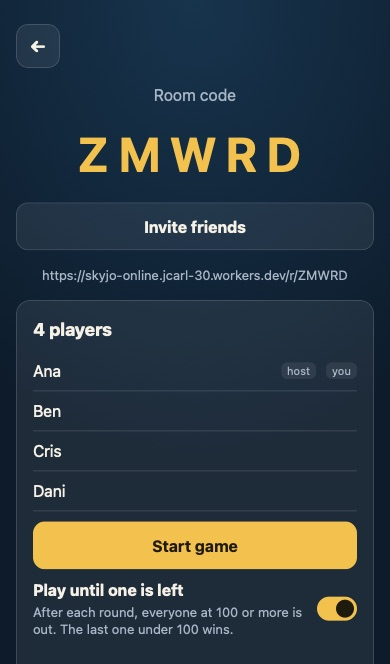
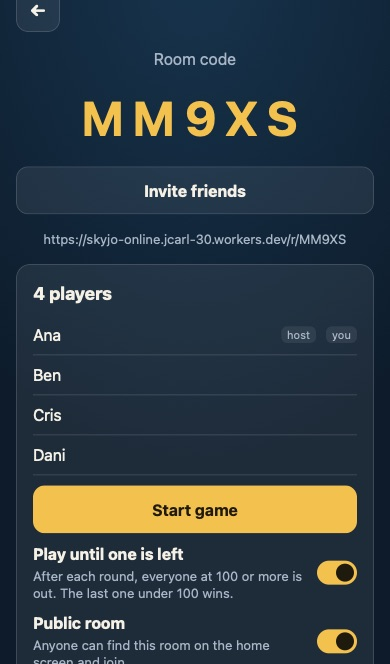
feat: public rooms: version 2.7.0, changelog, README and its images, AGENTS.md, screenshots (M24)

diff --git a/e2e/readme.spec.ts b/e2e/readme.spec.ts
@@ -21,7 +21,6 @@ test("README stills", async ({ browser, page }, info) => {
   await page.goto("/");
   const gotIt = page.getByRole("button", { name: "Got it" });
   if (await gotIt.count()) await gotIt.click();
-  await shot(page, "home");
 
   const { pages } = await seatedRoom(browser, info, ["Ana", "Ben", "Cris", "Dani"]);
   // Show the live site's address, not the test server's.
@@ -31,7 +30,13 @@ test("README stills", async ({ browser, page }, info) => {
   });
   await pages[0].getByRole("checkbox", { name: "Play until one is left" }).click({ force: true });
   await expect(pages[1].getByRole("checkbox", { name: "Play until one is left" })).toBeChecked();
+  // A public room (M24): the switch in the lobby, and the room on Home's list.
+  await pages[0].getByRole("checkbox", { name: "Public room" }).click({ force: true });
+  await expect(pages[1].getByRole("checkbox", { name: "Public room" })).toBeChecked();
   await shot(pages[0], "lobby");
+  await page.getByRole("button", { name: "Refresh" }).click();
+  await expect(page.getByTestId("public-rooms")).toContainText("Ana's room");
+  await shot(page, "home");
 
   // Your turn with 9 s on the clock (M8).
   const four = atTurnStart(4);

diff --git a/src/client/Home.tsx b/src/client/Home.tsx
@@ -186,7 +186,7 @@ export function Home() {
                   <span className="seat-tags">
                     {r.knockout && <span className="tag">{t("knockoutTag")}</span>}
                     <span>
-                      {r.players}/{MAX_PLAYERS}
+                      {r.players}/{MAX_PLAYERS} ›
                     </span>
                   </span>
                 </a>

diff --git a/AGENTS.md b/AGENTS.md
@@ -8,22 +8,23 @@ A phone-first, real-time multiplayer card game based on Skyjo's mechanics. 2–8
 
 ## Architecture
 
-| Path                       | Responsibility                                                                              | Rules                                                                                                                                                   |
-| -------------------------- | ------------------------------------------------------------------------------------------- | ------------------------------------------------------------------------------------------------------------------------------------------------------- |
-| `src/engine/`              | Rules engine: state, actions, scoring, view projection, seeded RNG                          | Pure and deterministic. Imports only `./…`. No `Math.random`, `Date`, DOM, or Node APIs.                                                                |
-| `src/client/`              | React UI (online rooms; no local mode)                                                      | Renders `GameView`, sends actions. Never decides rules.                                                                                                 |
-| `src/server/room.ts`       | Room: seats, protocol, reconnection, turn clock and Auto-play                               | Platform-agnostic. Runs the engine; is the only authority.                                                                                              |
-| `src/server/worker.ts`     | Cloudflare Worker + Durable Object adapter                                                  | Thin.                                                                                                                                                   |
-| `src/protocol.ts`          | Wire messages (`ClientMsg`, `ServerMsg`, `RoomView`) and `parseClientMsg`                   | Shared by client and server. Validates shape only; never trusts `seat` from the client.                                                                 |
-| `src/server/node.ts`       | Self-host adapter (Node + `ws`)                                                             | Thin.                                                                                                                                                   |
-| `e2e/`                     | Playwright tests                                                                            | Mobile (iPhone, Pixel) and desktop projects.                                                                                                            |
-| `src/client/motion.ts`     | Card-flight animations: diff two `GameView`s, then FLIP-animate or fly fixed stand-ins      | Honors reduced motion. Pure diff (`flightsBetween`) is unit-tested.                                                                                     |
-| `public/`                  | PWA manifest (`manifest.webmanifest`) and icons                                             | Generated icons come from `npm run art -- icon`.                                                                                                        |
-| `src/client/sw.js`         | Service-worker template: precache, network-first navigations, inline offline page           | The build (`precacheServiceWorker` in `vite.config.ts`) fills in the file list and a per-build cache name and emits `/sw.js`.                           |
-| `src/client/sound.ts`      | Sound effects: which sounds a view change makes (`soundsBetween`), Web Audio playback, mute | CC0 files in `public/sfx/` (Kenney; throws from freesound.org). Unlocked by the first tap; iOS silent switch respected. `cue` vibrates even when muted. |
-| `src/client/Toss.tsx`      | Throws (M21, M22): flights (`flight()`), gags and marks, the tray, the Throws switch        | No game state. Sends with no `seq`, so a throw never holds up a move.                                                                                   |
-| `src/client/Reactions.tsx` | Reactions (M23): the button and its fan, each reaction's choreography, `lastMover`          | No game state. The button sits beside row 3 when 56 px are free there (`useRoomBeside` in `Table.tsx`), else in the name bar: it never shrinks a card.  |
-| `scripts/`                 | Local-only tooling (e.g. art generation)                                                    | May read `.env`. Never runs in CI.                                                                                                                      |
+| Path                       | Responsibility                                                                                | Rules                                                                                                                                                   |
+| -------------------------- | --------------------------------------------------------------------------------------------- | ------------------------------------------------------------------------------------------------------------------------------------------------------- |
+| `src/engine/`              | Rules engine: state, actions, scoring, view projection, seeded RNG                            | Pure and deterministic. Imports only `./…`. No `Math.random`, `Date`, DOM, or Node APIs.                                                                |
+| `src/client/`              | React UI (online rooms; no local mode)                                                        | Renders `GameView`, sends actions. Never decides rules.                                                                                                 |
+| `src/server/room.ts`       | Room: seats, protocol, reconnection, turn clock and Auto-play                                 | Platform-agnostic. Runs the engine; is the only authority.                                                                                              |
+| `src/server/worker.ts`     | Cloudflare Worker + Durable Object adapter: `RoomDO`, one per room, and the one `DirectoryDO` | Thin. Its entry module may export only handlers and classes: a constant there stops the Worker from starting.                                           |
+| `src/server/directory.ts`  | Home's public-room list (M24): `set`, `list`, the 200-room cap, the 24 h expiry               | Platform-agnostic, like `room.ts`. Holds only what rooms tell it (`PublicRoom`): never a token or an address.                                           |
+| `src/protocol.ts`          | Wire messages (`ClientMsg`, `ServerMsg`, `RoomView`) and `parseClientMsg`                     | Shared by client and server. Validates shape only; never trusts `seat` from the client.                                                                 |
+| `src/server/node.ts`       | Self-host adapter (Node + `ws`)                                                               | Thin.                                                                                                                                                   |
+| `e2e/`                     | Playwright tests                                                                              | Mobile (iPhone, Pixel) and desktop projects.                                                                                                            |
+| `src/client/motion.ts`     | Card-flight animations: diff two `GameView`s, then FLIP-animate or fly fixed stand-ins        | Honors reduced motion. Pure diff (`flightsBetween`) is unit-tested.                                                                                     |
+| `public/`                  | PWA manifest (`manifest.webmanifest`) and icons                                               | Generated icons come from `npm run art -- icon`.                                                                                                        |
+| `src/client/sw.js`         | Service-worker template: precache, network-first navigations, inline offline page             | The build (`precacheServiceWorker` in `vite.config.ts`) fills in the file list and a per-build cache name and emits `/sw.js`.                           |
+| `src/client/sound.ts`      | Sound effects: which sounds a view change makes (`soundsBetween`), Web Audio playback, mute   | CC0 files in `public/sfx/` (Kenney; throws from freesound.org). Unlocked by the first tap; iOS silent switch respected. `cue` vibrates even when muted. |
+| `src/client/Toss.tsx`      | Throws (M21, M22): flights (`flight()`), gags and marks, the tray, the Throws switch          | No game state. Sends with no `seq`, so a throw never holds up a move.                                                                                   |
+| `src/client/Reactions.tsx` | Reactions (M23): the button and its fan, each reaction's choreography, `lastMover`            | No game state. The button sits beside row 3 when 56 px are free there (`useRoomBeside` in `Table.tsx`), else in the name bar: it never shrinks a card.  |
+| `scripts/`                 | Local-only tooling (e.g. art generation)                                                      | May read `.env`. Never runs in CI.                                                                                                                      |
 
 Data flow: client sends an `Action` → server calls `apply(state, action)` → server broadcasts `toView(state)`. `GameView` never contains face-down values, deck order, or RNG state. (No player, including the owner, knows their own face-down cards, so the view is the same for everyone.)
 
@@ -37,17 +38,22 @@ Turn clock and Auto-play (M8). The server is the clock; clients only draw it. `R
 
 Throws (M21). `{ t: "toss", to, item }` from a seated player, mid-game, at another seat. The room keeps the latest throw and each seat's last throw time in memory, never in `RoomData`, and returns `"view"`: no row, and each view sent within `TOSS_SHOW_MS` (2 s) carries `toss`, whose `id` (its time) lets clients ignore a repeat. A seat throws at most once every `TOSS_MS` (3 s); a throw too soon returns `"none"`. Each costs one `MESSAGES` unit like any message. The client sends throws without a `seq` (`useRoom`'s `toss`), so they never wait for an ack or block a move. Reactions (M23) take the same path: `{ t: "react", kind, to? }` (`to` only for the migajero, at the last mover), the latest kept in memory as `RoomView.reaction` for `TOSS_SHOW_MS`, returning `"view"`, and sharing the throws' per-seat `tossed` cooldown: one gag (a throw or a reaction) per seat per `TOSS_MS`. A separate field, not new `TOSS_ITEMS`, so tabs loaded before 2.6.0 ignore it. The "Fun" switch (`skyjo:throws`) turns both off. The server drops (`"none"`, not an error, since it can be a race) a reaction outside the flip, draw and place phases, and a migajero whose `to` isn't `lastMover` (`protocol.ts`, shared with the client). A throw or migajero at an opponent's panel scrolled out of the strip scrolls it into view once the last move's cards have landed (`reveal` in `Table.tsx`); laughs, love and anger stay at the strip's edge with the reactor named. Flights and reactions follow their seat each frame (`follow` in `Toss.tsx`). The fan is portalled to `<body>`, so a knock or quake on an ancestor can't move it.
 
+Public rooms (M24). `{ t: "public", on }`, from the host only, in the lobby, sets `RoomData.public`; `RoomView.public` shows every phone the switch. The room alone decides whether it is on Home's list: `Room.listing(live)` is its `PublicRoom` (`code`, host name, seats taken, knockout) while it is public, in the lobby, not full, and a seated player is connected, else null. So a room leaves the list at the deal, at 8 seats, when the host switches it off, and when its last seated player's socket closes or goes stale; a rematch lists it again. `RoomData.listed` is what the list was last told, saved so a room back from hibernation tells it only what changed; `relist` says what to tell now (also every 12 h, since the list forgets a room it hasn't heard from in 24 h, such as one whose "unlist" was lost), and the adapter calls `told` once the list has it, then saves the room. A listed room schedules a presence check for when its last connected seat would turn stale, at SEC-9's cadence, so a host alone in a public lobby whose phone dies leaves the list within 45 s, or 10 min once the room is quiet. The list is one more Durable Object, `DirectoryDO` (`idFromName("public")`): `Directory` (`directory.ts`) in memory, one storage row per listed room, read once when it wakes, at most 200 rooms (the oldest goes). `RoomDO.commit` tells it by RPC. `GET /api/public` returns the 20 rooms that changed last; each isolate reuses its answer for `LIST_CACHE_MS` (10 s), except in a local run, whose tests must see a change at once. The Cache API would be the real edge cache, but it does nothing on `workers.dev`. Home (`usePublicRooms` in `Home.tsx`) asks when it opens, then every 15 s while the page is visible, 20 times, and starts over when the page becomes visible again or on Refresh: a forgotten tab stops after 5 min. Node keeps the same `Directory` in memory.
+
 Per-IP limits (SEC-1, SEC-4, SEC-10, SEC-11). Each client address, IPv4 as is and IPv6 by its /64 (`ipKey` in `room.ts`), gets three ratelimit bindings a minute (`wrangler.jsonc`; `room.test.ts` checks the numbers):
 - `API_REQUESTS`: 30 of any `/api` request, checked at the top of the Worker's `fetch` before any Durable Object is touched. 8 phones on bad Wi-Fi peak at about 22 (`e2e/flaky.spec.ts`, run with `MEASURE=1`);
 - `ROOM_CREATION`: 10;
+- (`GET /api/public` has no binding of its own: `API_REQUESTS` bounds it, and each read of the directory spends `MESSAGES`, below);
 - `MESSAGES`: `IP_MESSAGES_PER_MINUTE` (120) units, the one budget for every row an address makes us write, across all its sockets and rooms (`spend` in `worker.ts`):
   - a message costs 1 (pings don't count), plus 1 if its `commit` moves the alarm earlier; a close event pays that 1 too, and otherwise writes nothing (the seat's last sign of life stays in memory). The last socket out also pays 2 when an alarm earlier than the room's expiry is still armed, since that run finds no address in the room to charge (SEC-13);
   - each alarm run costs 2, a row and a DO request, charged to every address with a live socket in the room, since a lobby whose sockets only ping re-checks presence (every ≤ 45 s, then every 10 min once quiet). Each Auto-play step is an alarm run too, one that also saves the room (2 rows), so an auto turn costs 4: 4 rows and 2 DO requests. With 7 seats on auto-play and one player tapping every second on one IP (plus each away phone's wake `hello`), the busiest minute is 86, under 0.75 of the budget; a 2-seat table with both on Auto-play costs each connected IP 76 (`worker.test.ts`);
-  - a new room costs 3, spent in `RoomDO.create`, where the room's other charges are counted (ratelimit counts are per location).
+  - a new room costs 3, spent in `RoomDO.create`, where the room's other charges are counted (ratelimit counts are per location);
+  - telling the public list (M24) costs 2, for its row and its Durable Object request (and the room's own row, when the event hadn't saved it): to the sender of the message that changed the listing, to the address whose close took the last seated player away, or, at a presence check or the room's expiry, to every address with a live socket in the room, on top of the alarm's 2. Making a room public costs its host 4 (the message, the list, and the alarm it brings forward); a stranger's join costs them 3. A listing dropped by the 200-room cap or the 24 h expiry is one more row, prepaid by those 2. A list that can't be reached costs nobody, and the room tells it at its next event;
+  - reading the public list from its object costs 2 (a Durable Object request, no row), spent in the Worker; a read answered from the isolate's 10 s cache costs only its `API_REQUESTS` unit. A Home viewer alone pays 8 a minute.
 
   Past the budget, the address's socket (or, at an alarm, all its sockets in that room) is closed with 1008 (`CLOSE_TOO_MANY`), and the client retries every 20 s. The socket attachment keeps the address's key through hibernation.
 
-One address at every limit then needs at least 14 h to use up the rows and 18 h for the DO requests, whether it holds rooms, spams, connects and leaves, or leaves games mid-turn and comes back (`holdRooms` in `worker.test.ts`; the last of these took 12.2 h before the last socket out paid for its alarm). Any new event that writes a row must charge whoever caused it: an alarm that runs after everyone left has nobody to charge, so whoever left it armed pays when they leave.
+One address at every limit then needs at least 14 h to use up the rows and 18 h for the DO requests, whether it holds rooms, spams, connects and leaves, leaves games mid-turn and comes back, flips a room's Public switch in a loop (16.4 h and 19.4 h) or lists rooms and leaves (`holdRooms` in `worker.test.ts`; the last of these took 12.2 h before the last socket out paid for its alarm). Any new event that writes a row must charge whoever caused it: an alarm that runs after everyone left has nobody to charge, so whoever left it armed pays when they leave.
 
 Socket cap (SEC-2, SEC-6). A room takes `MAX_SOCKETS` (20) sockets that said hello, and a socket keeps the token of its first hello: `receive` rejects a hello with another token (`bad-message`), or a socket could be admitted as one seat and move to another. `Room.admit`, run by both adapters at a socket's first hello, decides in a full room:
 - a `dead` socket (unseen for 2 × `STALE_MS`) goes first, closed with 1001 so a frozen phone just reconnects;

diff --git a/README.md b/README.md
@@ -1,6 +1,6 @@
 # Skyjo Online
 
-A free, phone-first multiplayer card game based on Skyjo's mechanics. Open a link, pick a name, and play with 2–8 friends in real time. No accounts. Available in English, Spanish (Latin America), and Portuguese (Brazil).
+A free, phone-first multiplayer card game based on Skyjo's mechanics. Open a link, pick a name, and play with 2–8 friends in real time, or join a public room. No accounts. Available in English, Spanish (Latin America), and Portuguese (Brazil).
 
 **Play now: https://skyjo-online.jcarl-30.workers.dev** · [What's new](CHANGELOG.md) · [Releases](https://github.com/jack1590/skyjo-online/releases)
 
@@ -10,7 +10,7 @@ A free, phone-first multiplayer card game based on Skyjo's mechanics. Open a lin
 
 |                                                                                             Start or join a room                                                                                             |                                                                                                     Invite friends                                                                                                     |                                                                                                         Your turn, 9 seconds left                                                                                                          |
 | :----------------------------------------------------------------------------------------------------------------------------------------------------------------------------------------------------------: | :--------------------------------------------------------------------------------------------------------------------------------------------------------------------------------------------------------------------: | :----------------------------------------------------------------------------------------------------------------------------------------------------------------------------------------------------------------------------------------: |
-|                                                      <img src="docs/readme/home.jpg" width="220" alt="Home screen with Create a room and Join by code">                                                      |                                 <img src="docs/readme/lobby.jpg" width="220" alt="Lobby with the room code, invite link, four seated players and Play until one is left switched on">                                  | <img src="docs/readme/table-4.jpg" width="220" alt="A four-player table on your turn: the pill reads Your last turn · 9, an orange bar above your grid shows the time left, and each total has that player's round score so far under it"> |
+|                       <img src="docs/readme/home.jpg" width="220" alt="Home screen with Create a room, Join by code, and the public rooms: Ana's room, Knockout, 4 of 8 seats taken">                        |                         <img src="docs/readme/lobby.jpg" width="220" alt="Lobby with the room code, invite link, four seated players, and Play until one is left and Public room switched on">                         | <img src="docs/readme/table-4.jpg" width="220" alt="A four-player table on your turn: the pill reads Your last turn · 9, an orange bar above your grid shows the time left, and each total has that player's round score so far under it"> |
 |                                                                                       **8 players, one on Auto-play**                                                                                        |                                                                                  **Tap an opponent: see their cards, throw a donkey**                                                                                  |                                                                                                             **Round summary**                                                                                                              |
 | <img src="docs/readme/table-8.jpg" width="220" alt="An eight-player table: a swipeable strip of opponents, the player to move ringed with 7 seconds left, and a robot by the name of a player on Auto-play"> | <img src="docs/readme/zoom.jpg" width="220" alt="One opponent's grid shown full size, with a row of things to throw at them under it: a bomb, a beer, a donkey, a tomato, a flip-flop and a kiss, and the Fun switch"> |                                <img src="docs/readme/summary.jpg" width="220" alt="Round scores ranked from the lowest total, your row tagged you, and the ender's doubled score shown as base ×2 = total">                                |
 |                                                                                    **Play until one is left: out at 100**                                                                                    |                                                                                                   **Out · watching**                                                                                                   |                                                                                                         **The last one left wins**                                                                                                         |
@@ -21,6 +21,7 @@ The images come from the real app (`npm run shots:readme`) and are refreshed whe
 ## Play
 
 - **Online with friends:** tap **Create a room**, then **Invite friends** to share the link (or read out the 5-letter code). Everyone enters a name and joins. The host taps **Start game**. If you reload or lose signal, you get your seat back automatically. A ninth person, or anyone arriving mid-game, watches until the game ends: every grid, two to a row, scrolled to whoever is playing, with the deck, the discard pile and the drawn card always in view. A room holds 20 connected phones, players included, and players always get back in.
+- **Public rooms:** to play with whoever is around, tap a room under **Public rooms** on the home screen: each shows its host, the seats taken out of 8, and whether it plays until one is left. To open yours to strangers, switch on **Public room** in the lobby (only the host can; everyone sees it). The room is listed while it waits in the lobby with a free seat and someone seated is there, and comes off the list when the game starts. Rooms are private unless the host switches it on.
 - **At the table:** swipe the strip of opponents to see every grid; tap one to see it full size. Whoever is playing scrolls into view. 🔊 in the header mutes sounds (remembered; an iPhone on silent stays silent). A card you tap lifts at once and stays up until the server answers. "Reconnecting…" at the top means your phone is offline or the server is slow to answer.
 - **Know where you stand:** under every total, a small number such as **+14** is that player's face-up cards this round, so you can see who is low before the cards are counted. When a round starts, the players' line under the piles says who starts and why ("Ben starts: highest pair (17)"). With one face-down card left, your turn reminds you that revealing it ends the round. When someone reveals their whole grid, every phone plays a two-note chime and buzzes: everyone's next turn is their last. At game over the winner's phone buzzes longer, and going out gets a short buzz.
 - **Throw things:** tap an opponent, then a bomb, a beer, a donkey, a tomato, a flip-flop or a kiss under their cards. Everyone sees it wind up, fly across the table and land with its own gag: the bomb blows up and leaves soot, the tomato splats, the beer pours foam, the flip-flop bonks, the kiss leaves lipstick, the donkey headbutts and leaves hoof prints. The phone it hits buzzes, and a bomb shakes it. One throw every 3 seconds each; the **Fun** switch in the same place turns them, and reactions, off on your phone.
@@ -60,7 +61,7 @@ npm run shots:readme   # regenerate the images above (needs ffmpeg)
 
 ## Deploy (Cloudflare, free plan)
 
-The app, the Worker and one Durable Object per room deploy together to Cloudflare Workers. The free plan needs no credit card. CI deploys every push to `main` after all checks pass, then plays a 2-phone round against the live URL. Each network is limited, every minute, to 30 API requests, 10 new rooms and 120 units of work: roughly one unit per storage write it causes (game messages, presence checks of rooms it keeps open, new rooms). So one network needs at least 14 hours to use up the free plan's daily storage writes or Durable Object requests. The Worker's 100,000 requests a day are still exposed to any flood (see `CHANGELOG.md`, 2.0.3 and 2.0.4).
+The app, the Worker, one Durable Object per room and one for the public-room list deploy together to Cloudflare Workers. The free plan needs no credit card. CI deploys every push to `main` after all checks pass, then plays a 2-phone round against the live URL. Each network is limited, every minute, to 30 API requests, 10 new rooms and 120 units of work: roughly one unit per storage write it causes (game messages, presence checks of rooms it keeps open, new rooms, changes to and reads of the public-room list). So one network needs at least 14 hours to use up the free plan's daily storage writes or Durable Object requests. The Worker's 100,000 requests a day are still exposed to any flood (see `CHANGELOG.md`, 2.0.3 and 2.0.4).
 
 One-time setup:
 1. Create a free Cloudflare account. In **Workers & Pages**, pick a `workers.dev` subdomain. Don't create an application; the first deploy does that.

diff --git a/CHANGELOG.md b/CHANGELOG.md
@@ -4,6 +4,16 @@ What changed for players, release by release. Format: [Keep a Changelog](https:/
 
 Every merge to `main` deploys to https://skyjo-online.jcarl-30.workers.dev. When the version in `package.json` is new, CI also tags it and publishes a GitHub Release with that version's section from this file, after the live smoke test passes.
 
+## [2.7.0] - 2026-11-11
+
+### Added
+
+- **Public rooms.** Until now you could only join a room by its code or link. Now the host can switch on **Public room** in the lobby, and the room appears on the home screen for anyone to join.
+  - **Home** lists the public rooms waiting for players: the host's name, how many of the 8 seats are taken, and a Knockout tag when "Play until one is left" is on. Tap a room, enter your name, and you're in. The list refreshes by itself every 15 seconds while you look at it; ↻ refreshes it now.
+  - A room is listed only while it waits in the lobby with a free seat and someone seated is there. It leaves the list when the game starts, when it fills, when the host switches Public room off, or when everyone leaves. After **Play again** it is listed again.
+  - Rooms are private unless the host says otherwise, and work exactly as before. Only the host can change the switch; everyone in the lobby sees it, so you know when strangers may join.
+  - The list shows nothing but the room's code, the host's name, the seat count and the Knockout option.
+
 ## [2.6.0] - 2026-10-29
 
 ### Added
